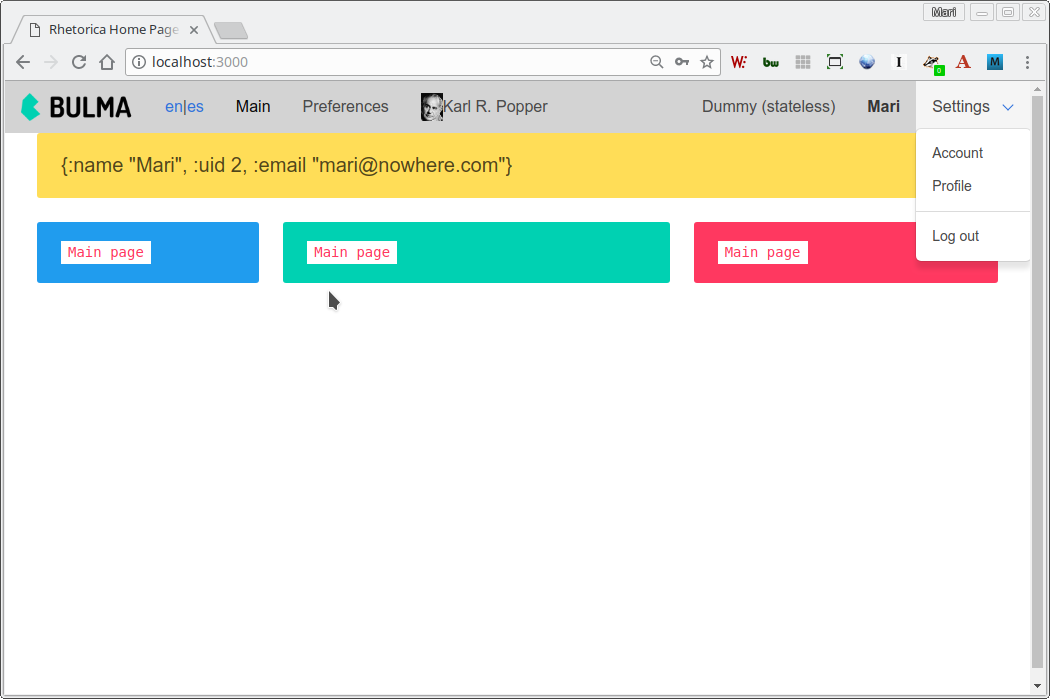
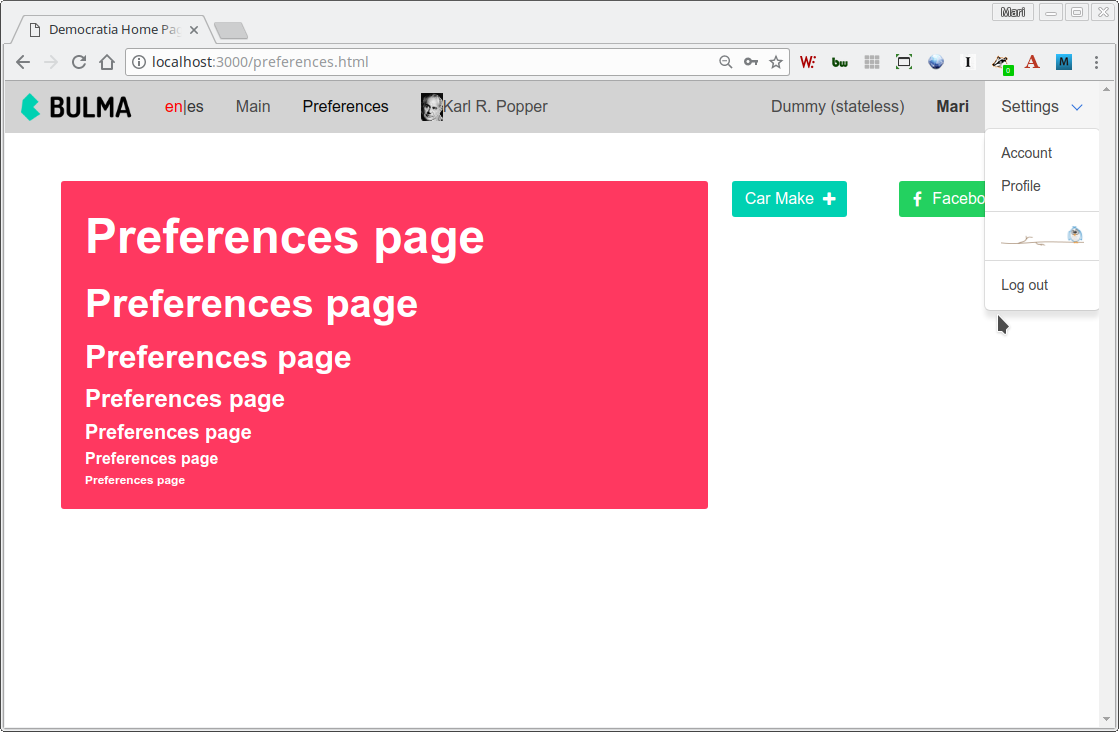
New screendumps with nav-sublink in navbar-dropdown example.

diff --git a/docs/intro.md b/docs/intro.md
@@ -66,7 +66,10 @@ Note: Source code incomplete, only showing Fulcro-Bulma related parts.
                                                                                   (tr "Account"))
                                                                    (b/navbar-link :navbar-dropdown-profile
                                                                                   (tr "Profile"))
-                                                                   (b/navbar-divider :navbar-dropdown-divider)
+                                                                   (b/navbar-divider :navbar-dropdown-divider1)
+                                                                   (b/navbar-sublink :navbar-sublink3
+                                                                                     :navbar-dropdown-intermezzo)
+                                                                   (b/navbar-divider :navbar-dropdown-divider2)
                                                                    (b/navbar-link :navbar-logout
                                                                                   (tr "Log out"))])]))
             nil))
@@ -126,11 +129,19 @@ Note: Source code incomplete, only showing Fulcro-Bulma related parts.
                                                                         (let [i18n-fcn (fn [lc]
                                                                                          (prim/transact! this
                                                                                                          `[(m/change-locale {:lang ~lc})]))]
+                                                                          #_(info (str "LOCALE=" locale))
+                                                                          ;;TODO Navbar Dropdown instead of separate choices.
                                                                           (dom/div #js {:className "field is-grouped"}
                                                                                    (dom/a #js {:href "#"
+                                                                                               :style #js {:color (if (= locale "en")
+                                                                                                                    "red"
+                                                                                                                    "#363636")}
                                                                                                :onClick (fn [] (i18n-fcn :en))} (tr "en"))
                                                                                    (dom/span nil "|")
                                                                                    (dom/a #js {:href "#"
+                                                                                               :style #js {:color (if (= locale "es")
+                                                                                                                    "red"
+                                                                                                                    "#363636")}
                                                                                                :onClick (fn [] (i18n-fcn :es))} (tr "es")))))
                                               :navbar-philosophers-render-fcn
                                               (fn [_]
@@ -140,7 +151,11 @@ Note: Source code incomplete, only showing Fulcro-Bulma related parts.
                                               :navbar-user-stats-render-fcn
                                               (fn [_]
                                                 (when logged-in?
-                                                  (ui-login-stats loading-data current-user)))}})]
+                                                  (ui-login-stats loading-data current-user)))
+                                              :navbar-dropdown-intermezzo
+                                              (fn [_]
+                                                [(dom/img #js {:key :hrbar-image
+                                                               :src "https://cloud.netlifyusercontent.com/assets/344dbf88-fdf9-42bb-adb4-46f01eedd629/04e4d4a6-99a2-4d2a-b746-be5bc310613a/hr-yiyi-zhou-3.gif"})])}})]
     (info (str "TopNavbar:: logged-in? " logged-in? ", current-route " current-navbar-link))
     ;; Do not execute the transact! on the server (hence the reader conditional)...
     #?(:cljs (prim/transact! this
